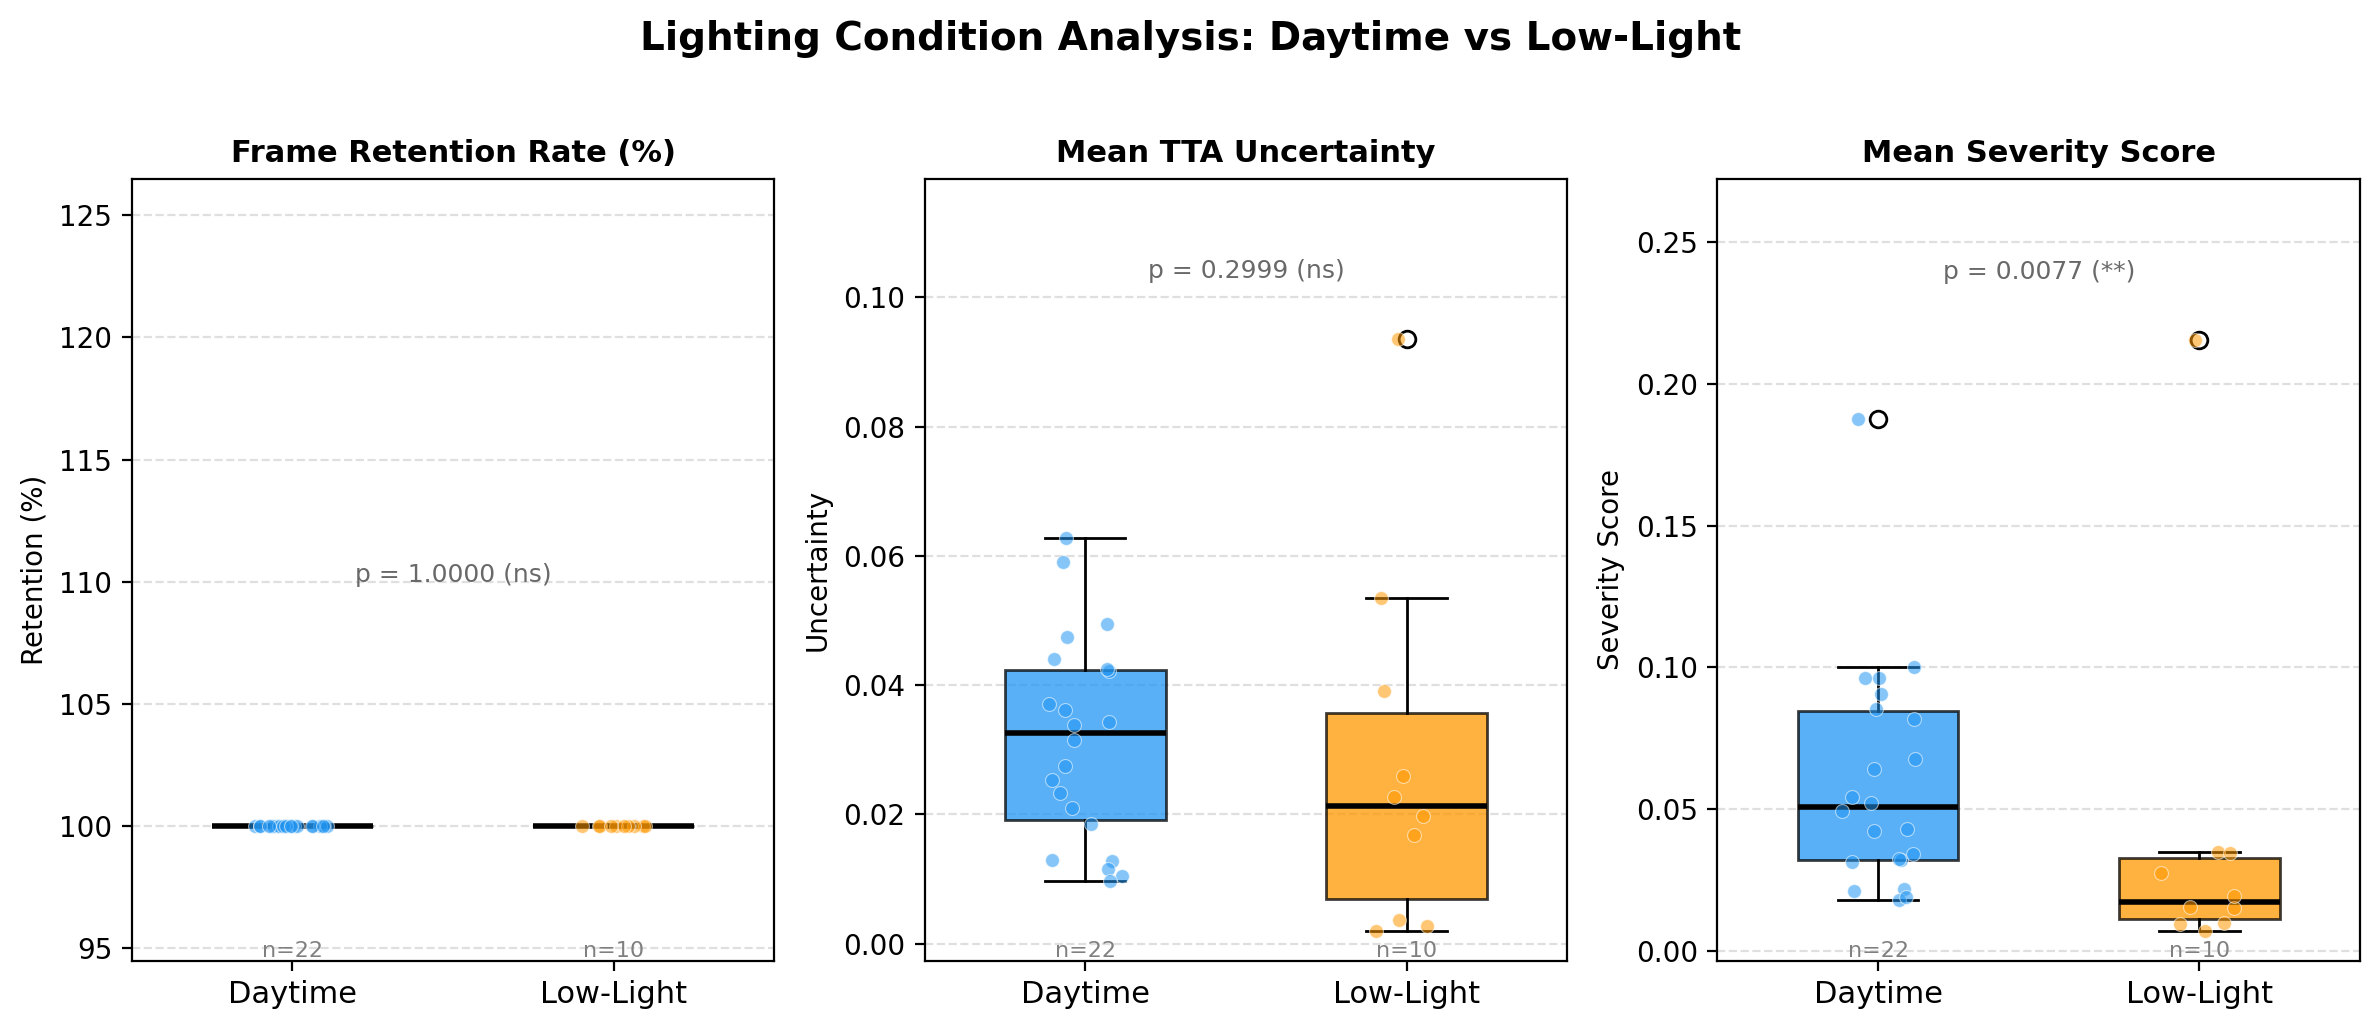
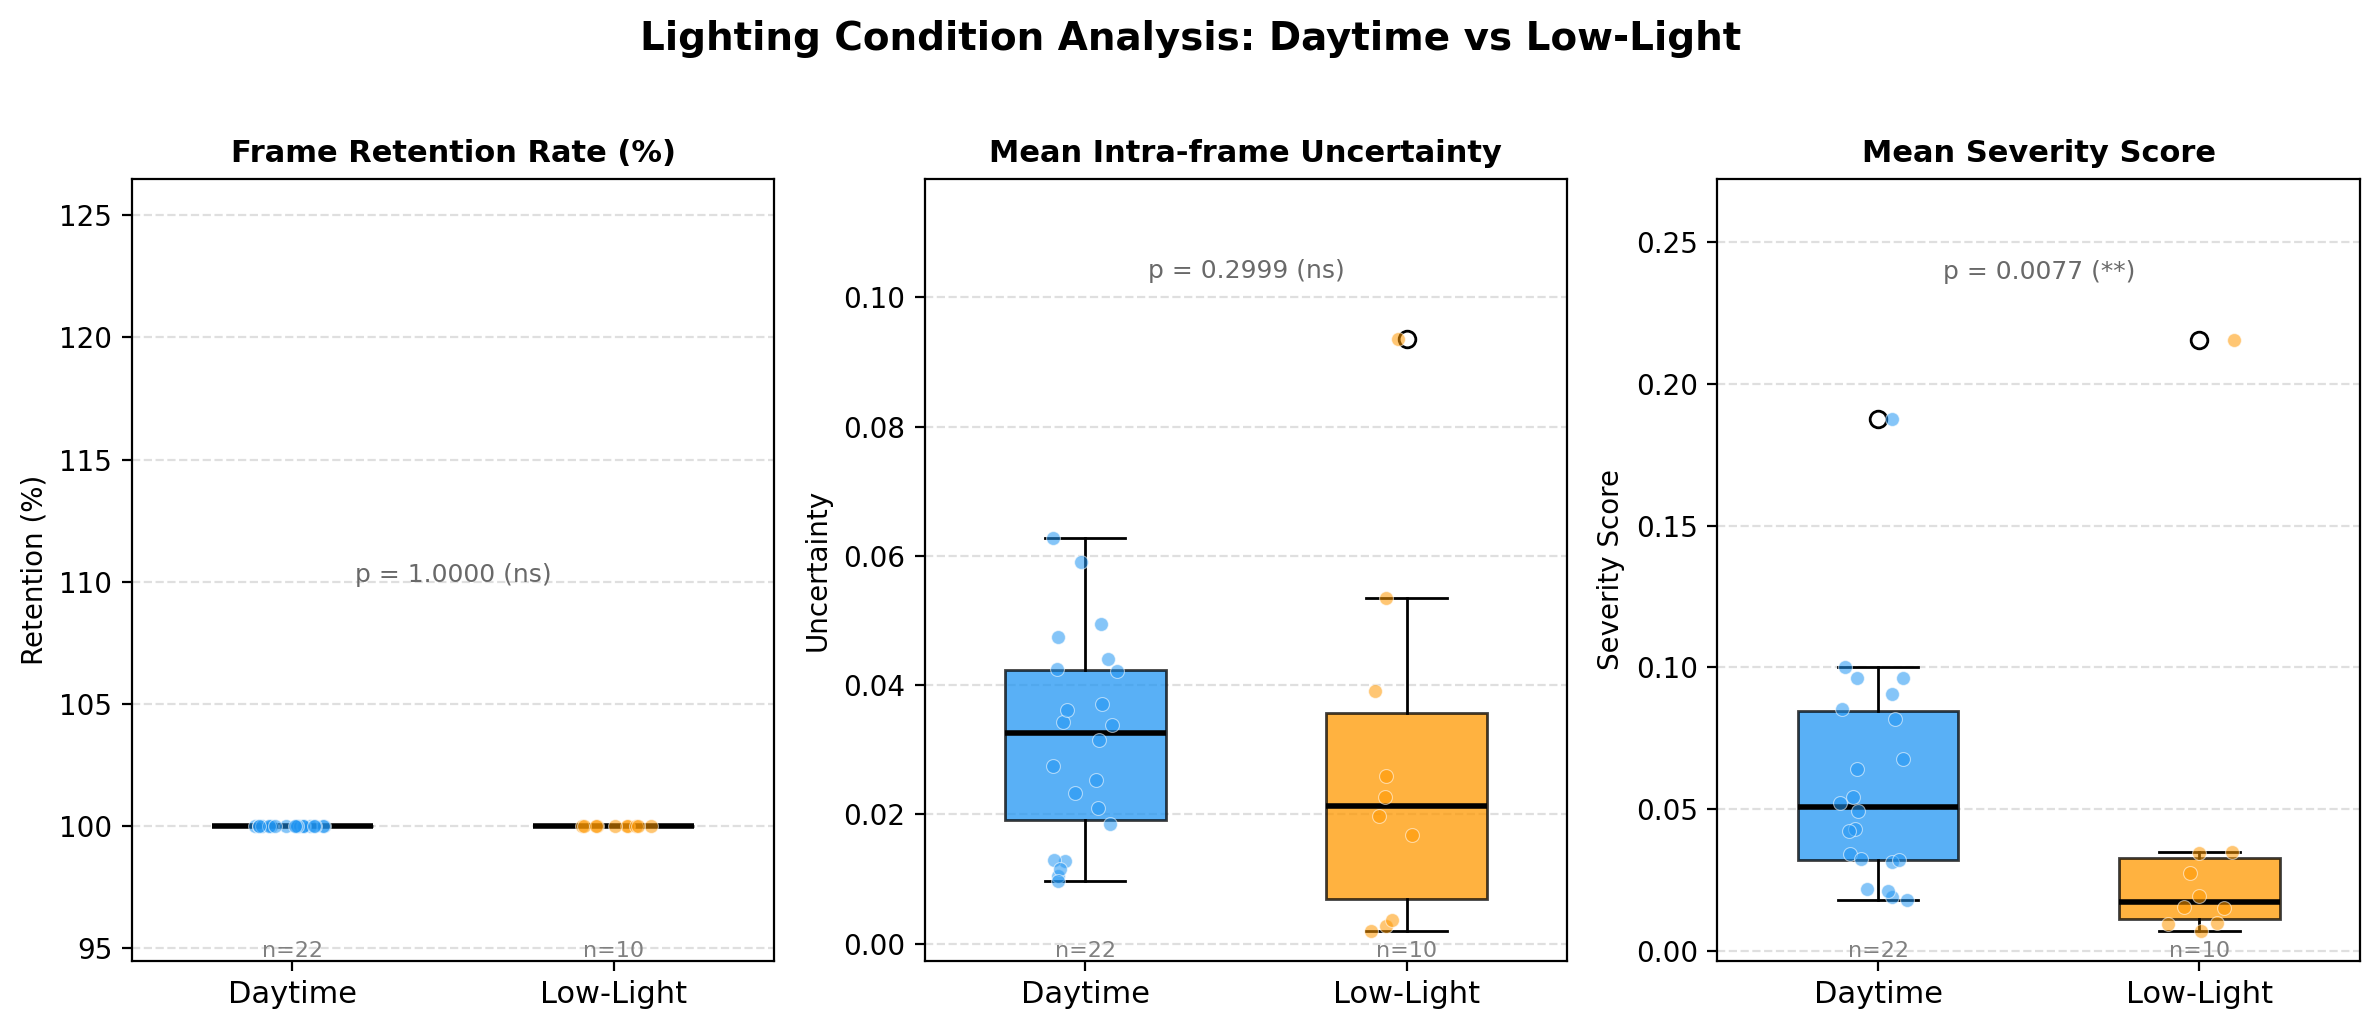
Fourth Commit

diff --git a/lighting_analysis.py b/lighting_analysis.py
@@ -25,7 +25,7 @@ os.makedirs(OUTPUT_DIR, exist_ok=True)
 
 METRICS = [
     ("retention_pct",    "Frame Retention Rate (%)",   "Retention (%)"),
-    ("mean_uncertainty", "Mean TTA Uncertainty",        "Uncertainty"),
+    ("mean_uncertainty", "Mean Intra-frame Uncertainty",        "Uncertainty"),
     ("mean_severity",    "Mean Severity Score",         "Severity Score"),
 ]
 